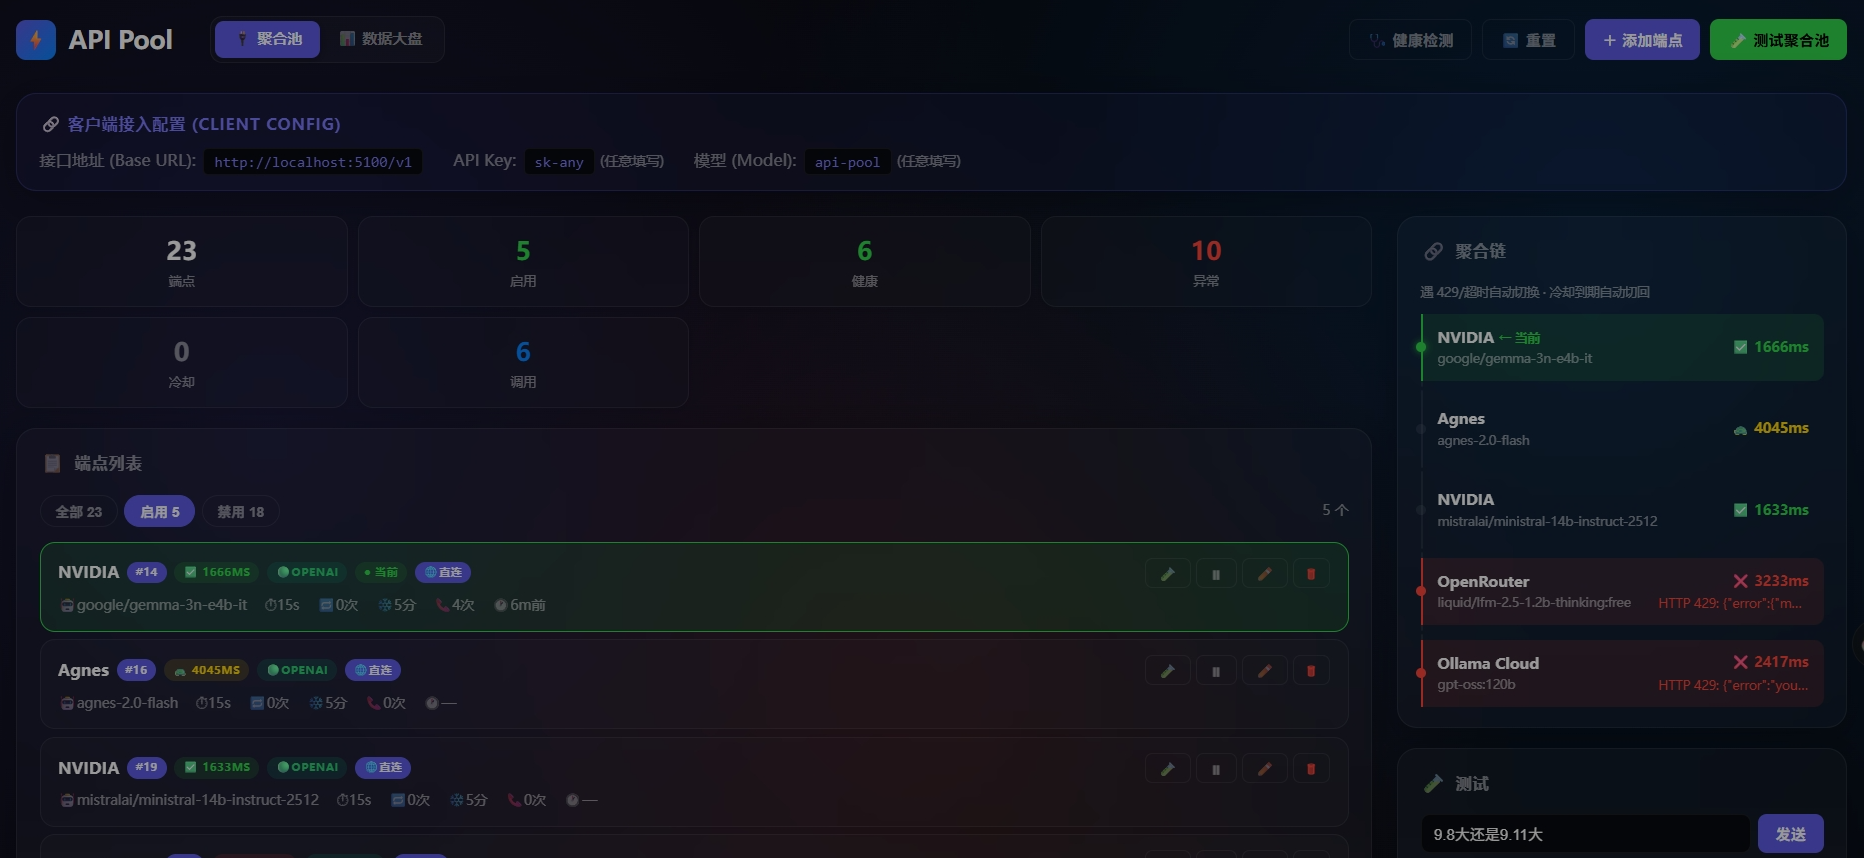
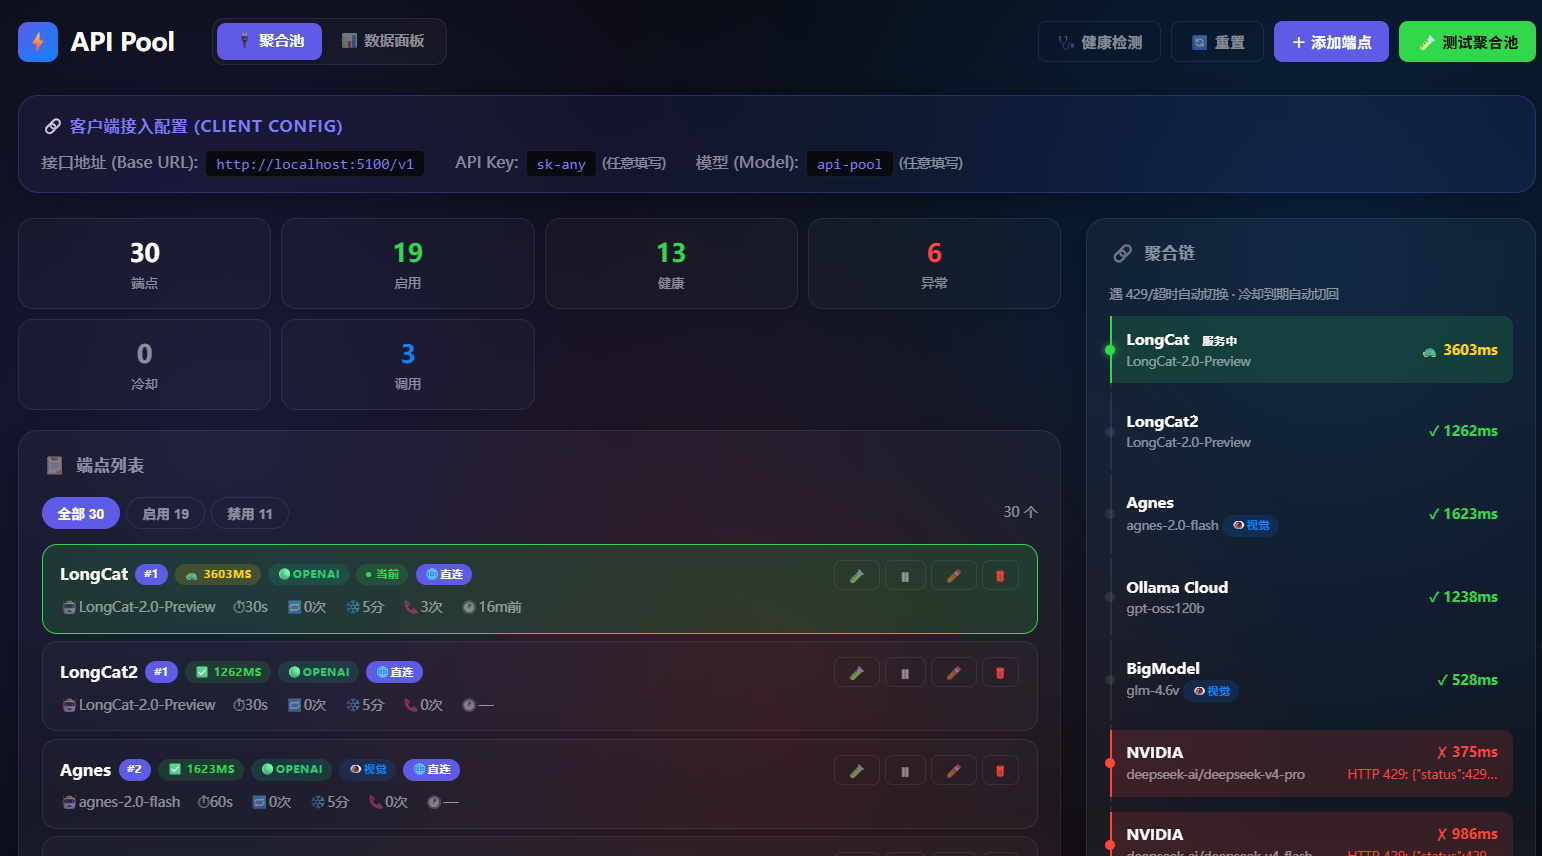
docs: update UI screenshots in README

diff --git a/README.md b/README.md
@@ -12,9 +12,9 @@
 - **控制台主页 (Dashboard):**
   ![Dashboard](./assets/dashboard.png)
 - **统计大盘 (Analytics):**
-  ![Analytics](./assets/analytics.jpeg)
+  ![Analytics](./assets/analytics.png)
 - **对话日志 (Audit Logs):**
-  ![Audit Logs](./assets/chat_logs.jpeg)
+  ![Audit Logs](./assets/chat_logs.png)
 - **系统日志 (System Logs):**
   ![System Logs](./assets/sys_logs.png)
 - **端点配置 (Endpoint Config):**